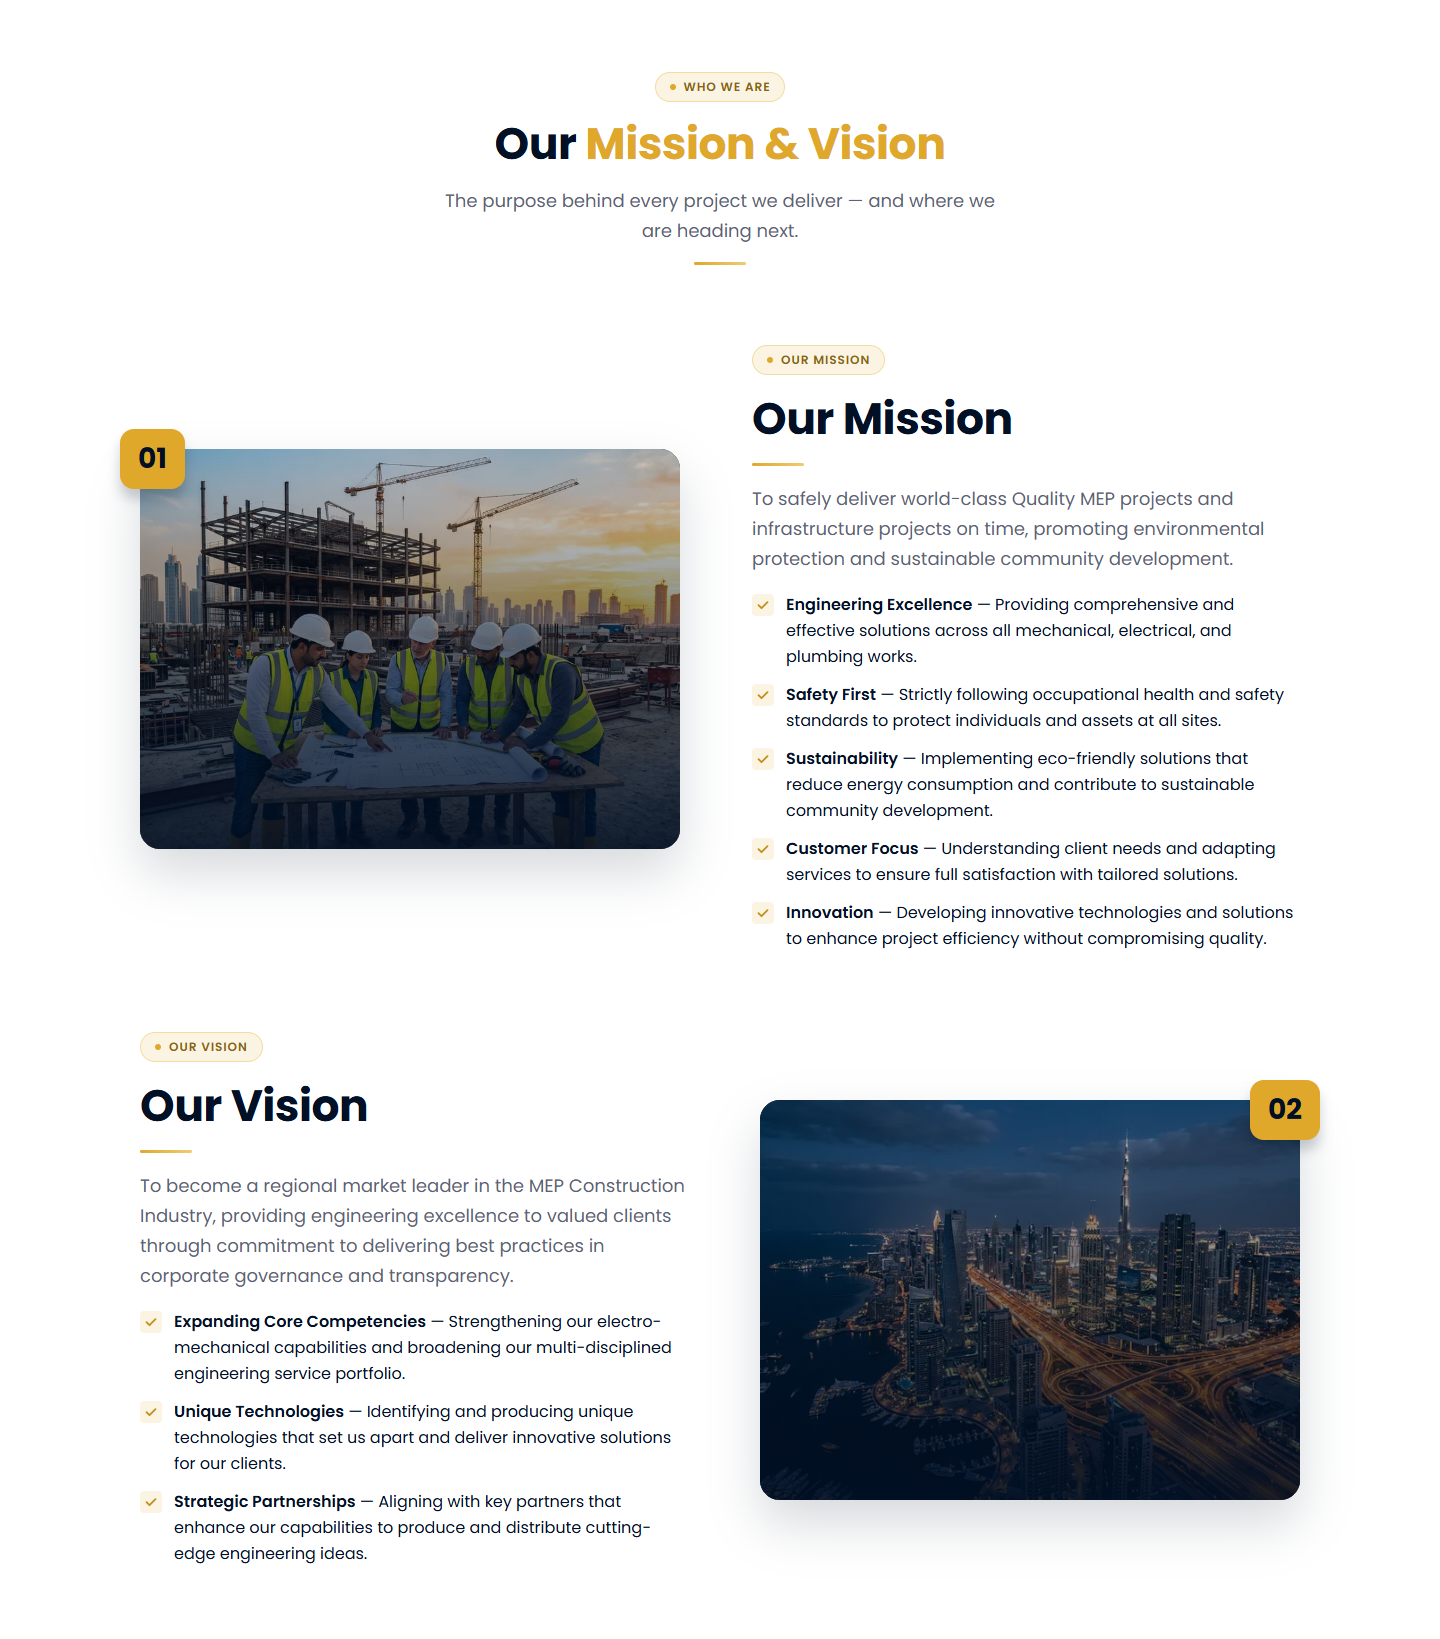
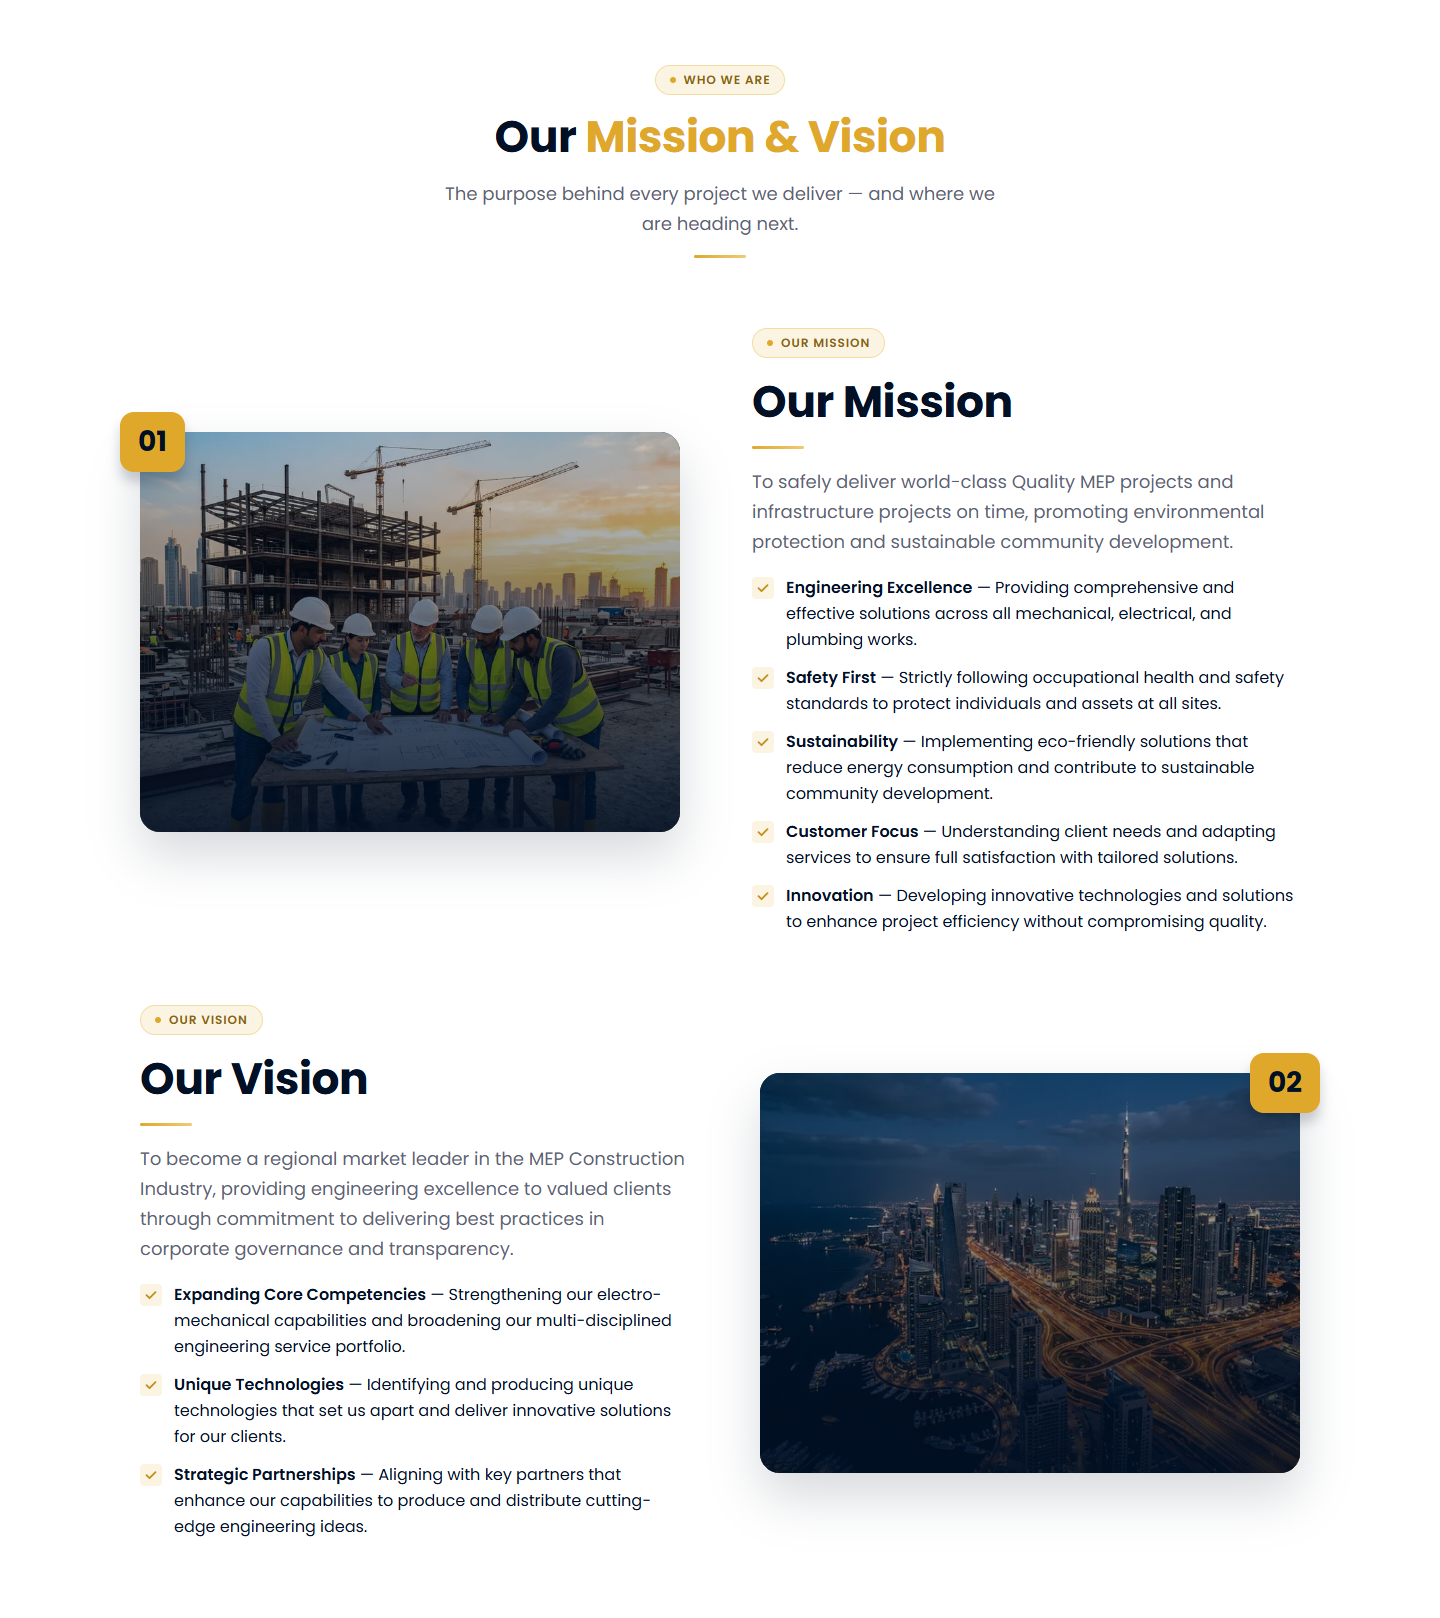
fix(about): resolve P3-T7 round 2 findings R-66 and R-78

diff --git a/src/app/(frontend)/[locale]/about/page.tsx b/src/app/(frontend)/[locale]/about/page.tsx
@@ -430,13 +430,15 @@ export default async function LocaleAboutPage({
               </div>
 
               <div className={styles.storyContentCol} {...revealAttributes({ stagger: true })}>
-                {storyEyebrow ? <Eyebrow label={storyEyebrow} tone="Light" /> : null}
-                {storyTitle ? (
-                  <h2 className={`${styles.storyTitle} t-h2`}>
-                    {renderAboutAccentHeading(storyTitle, true)}
-                  </h2>
-                ) : null}
-                <div aria-hidden="true" className={styles.goldDivider} />
+                <div className={styles.storyHead}>
+                  {storyEyebrow ? <Eyebrow label={storyEyebrow} tone="Light" /> : null}
+                  {storyTitle ? (
+                    <h2 className={`${styles.storyTitle} t-h2`}>
+                      {renderAboutAccentHeading(storyTitle, true)}
+                    </h2>
+                  ) : null}
+                  <div aria-hidden="true" className={styles.goldDivider} />
+                </div>
                 {storyParagraphs.map((paragraph, idx) => (
                   <p className={`${styles.storyParagraph} t-body-m`} key={`story-p-${String(idx)}`}>
                     {paragraph}

diff --git a/src/app/(frontend)/[locale]/about/page.module.css b/src/app/(frontend)/[locale]/about/page.module.css
@@ -43,7 +43,7 @@
 
 .storyContainer {
   display: flex;
-  align-items: center;
+  align-items: flex-start;
   justify-content: space-between;
   gap: var(--space-64);
 }
@@ -52,6 +52,7 @@
   position: relative;
   inline-size: 540px;
   block-size: 440px;
+  margin-block-start: 62.5px;
   flex-shrink: 0;
 }
 
@@ -123,6 +124,13 @@
   flex-direction: column;
   align-items: flex-start;
   gap: var(--space-20);
+}
+
+.storyHead {
+  display: flex;
+  flex-direction: column;
+  align-items: flex-start;
+  gap: var(--space-16);
 }
 
 .storyTitle {
@@ -284,7 +292,8 @@
 .mvSection {
   position: relative;
   inline-size: 100%;
-  padding-block: var(--section-padding-y);
+  padding-block-start: 65px;
+  padding-block-end: 78px;
   background-color: var(--white);
   box-sizing: border-box;
 }
@@ -293,7 +302,7 @@
   display: flex;
   flex-direction: column;
   align-items: center;
-  gap: var(--space-80);
+  gap: 70px;
 }
 
 .mvSectionHead {
@@ -570,6 +579,7 @@
   .storyVisualCol {
     inline-size: 100%;
     max-inline-size: 540px;
+    margin-block-start: 0;
   }
 
   .storyPhotoWrap {
